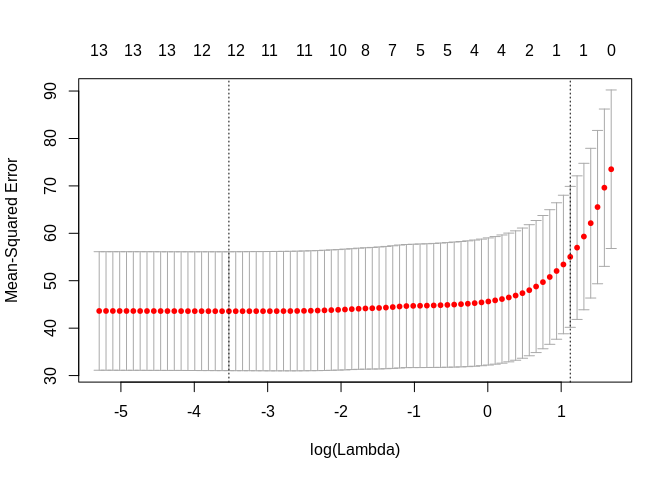
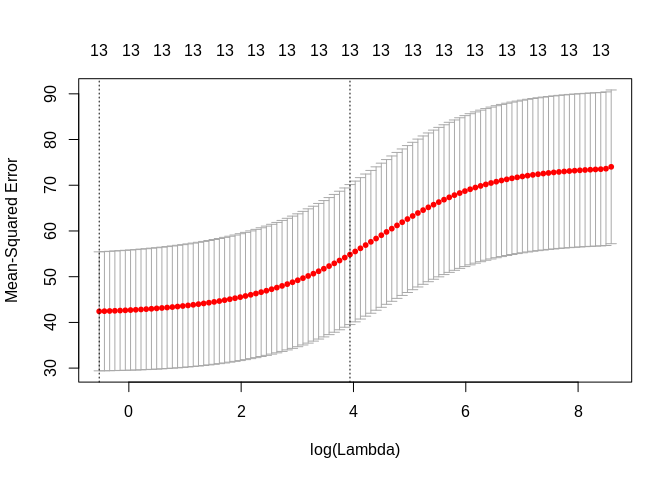
ridge regression

diff --git a/ch6/ch6_exercises.md b/ch6/ch6_exercises.md
@@ -590,3 +590,45 @@ cat('MSE at min lambda: ', mse_min)
 ```
 
     ## MSE at min lambda:  43.57399
+
+### Ridge
+
+I believe I can do a very similar thing as I did for lasso.
+
+``` r
+ridge <- cv.glmnet(x, y, type.measure='mse', alpha=0)
+plot(ridge)
+```
+
+![](ch6_exercises_files/figure-markdown_github/unnamed-chunk-27-1.png)
+
+``` r
+ridge_lmd <- ridge$lambda.min
+coef(ridge, ridge_lmd)
+```
+
+    ## 14 x 1 sparse Matrix of class "dgCMatrix"
+    ##                        1
+    ## (Intercept)  8.617905238
+    ## zn           0.032352168
+    ## indus       -0.081183885
+    ## chas        -0.739986141
+    ## nox         -5.095661077
+    ## rm           0.328170831
+    ## age          0.002074971
+    ## dis         -0.683786236
+    ## rad          0.414237410
+    ## tax          0.003695600
+    ## ptratio     -0.127614746
+    ## black       -0.008532788
+    ## lstat        0.142710654
+    ## medv        -0.136308133
+
+``` r
+#Find MSE
+i <- which(ridge$lambda == ridge$lambda.min)
+mse_min <- ridge$cvm[i]
+cat('MSE at min lambda: ', mse_min)
+```
+
+    ## MSE at min lambda:  42.42184
